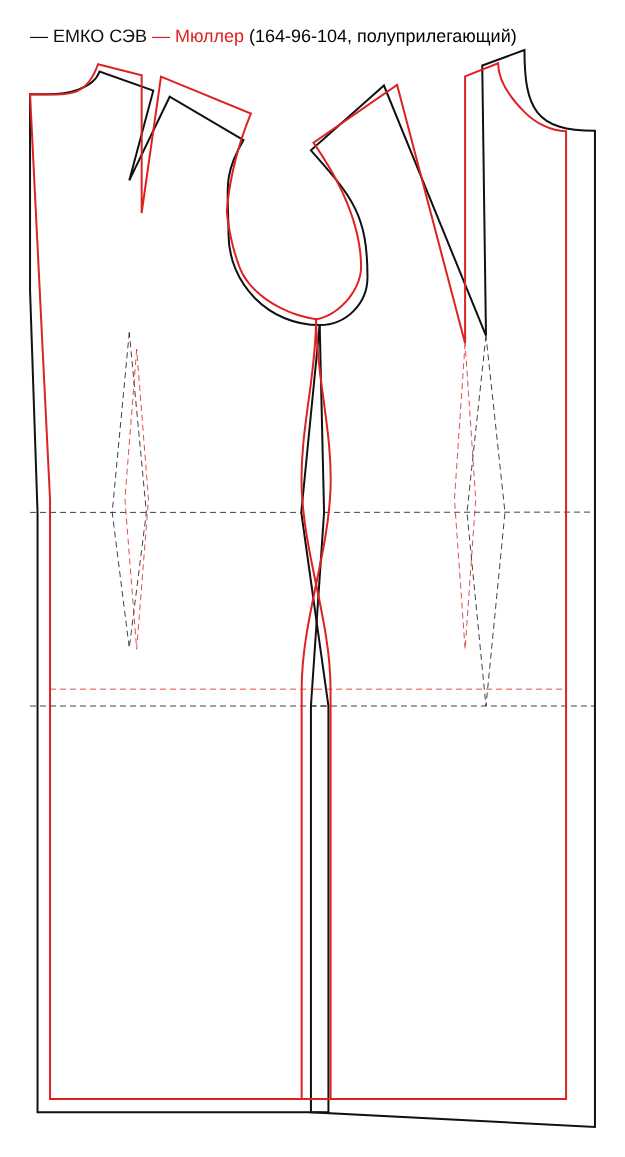
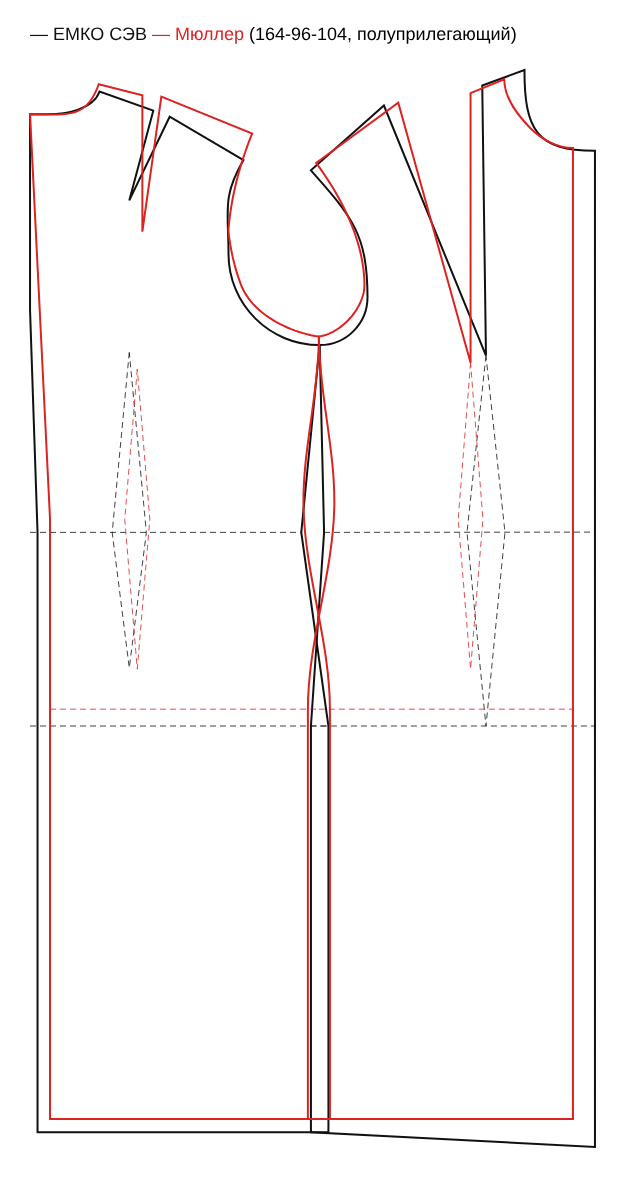
Müller dress: piecewise feature table by bust, ГОСТ Ог3 → Müller Ог
Forum material Platon added (ModaNews 2009, Club Sezon 2004) gives Müller's
full table of auxiliary features for Ог 80–146 and explains that his Ог and
Впрз are measured differently from ГОСТ.

- Гпр, Вг II, Дтп II, Шпр and Шг now follow the piecewise formulas; two
  variants for Шпр/Шг (the book's size 48 matches variant 2, the default).
- Armhole depth from Ог by default; Впрз + 2,5 is kept as an option.
- Ог3 is shifted to Müller's Ог by 1,5 % (option, 0 for Müller measurements).
- Bust warning range widened to 80–146 см; shoulder ease tolerance 2–13 mm.
- Docs: table, sources, updated comparison and dress overlay.

Claude-Session: https://claude.ai/code/session_01QULRT2sZbSPKQMqiW1vc4r

diff --git a/packages/core/src/blocks/muller/dress.ts b/packages/core/src/blocks/muller/dress.ts
@@ -12,12 +12,26 @@ import { calc, check, type BlockDef, type BlockResult, type CalcStep, type Silho
  *
  * Main measurements: Ог (bust), От, Об, Дсп (back length), Гпр (armhole
  * depth), Вб (hip height from the 7th vertebra), Ди, Др. For the typical
- * figure the book derives the rest from Ог (valid for Ог 100–116):
- *   Дгс = 1/10·½Ог + 2        back neck width
- *   Вг II = ¼Ог + 5            bust height from the top line
- *   Дтп II = Дсп + 4,5 + (Ог − 100)/10   front length on the dart line
- *   Шс = ⅛Ог + 5,5,  Шпр = ⅛Ог − 0,5,  Шг = ¼Ог − 5   (sum ½Ог)
+ * figure the book derives the rest from Ог. The size-48 example uses the
+ * formulas for Ог 100–116; the full piecewise table «Расчёт размерных
+ * признаков по системе Мюллера» (Ог 80–146) is taken from the Club Sezon
+ * forum thread «Какой техникой кроя вы пользуетесь» (g@la, 28.11.2004):
+ *   Гпр = 1/10·Ог + 12 | 11 | 10,5        (Ог < 83 | 83–116 | 117–146)
+ *   Дгс = 1/20·Ог + 2                    back neck width
+ *   Вг II = ¼Ог + 6 | 5 | 4              (80–95 | 96–115 | 117–146)
+ *   Дтп II = Дсп + 4 | 4,5 | 4,5 + (Ог − 100)/10 | 5 + … | 5,5 + … | 6 + …
+ *            (80–90 | 91–100 | 101–110 | 111–120 | 121–130 | > 130)
+ *   Шс = ⅛Ог + 5,5
+ *   Шпр, Шг, variant 1: ⅛Ог − 1,5 | − 1 | − 0,5;  ¼Ог − 4 | − 4,5 | − 5
+ *            (80–100 | 101–110 | > 110)
+ *   Шпр, Шг, variant 2: ⅛Ог − 1,5 | − 0,5 | + 0,5;  ¼Ог − 4 | − 5 | − 6
+ *            (< 83 | 83–116 | 117–146)  — the book's size 48 matches this one.
  * We do the same, so this block depends on fewer measurements than ЕМКО.
+ *
+ * Müller's Ог is taken over the bust points and the lower shoulder-blade
+ * angles, not level: it is 1–2 см more than ГОСТ Ог3, more for larger
+ * sizes (Сычева, ModaNews, 2009). We add `bustShift` % of Ог3 (1,5 % gives
+ * 1,3 см at Ог3 88 and 1,8 см at 120).
  *
  * Grid (fig. 1): 1–2 = Гпр + 1 (chest line), 1–3 = Дсп (waist), 1–4 = Вб,
  * 1–5 = Ди. CB 1→6→7→8 with 3–6 = 4–7 = 2. 9 on the chest line; 9–10 = Шс,
@@ -43,9 +57,10 @@ import { calc, check, type BlockDef, type BlockResult, type CalcStep, type Silho
  * 14–17 = ½ hem width. S = the front armhole from the notch to 11a laid on
  * the lower cap; the seam runs from S parallel to the front roll.
  *
- * Deviations: Гпр is taken from our measurement Впрз (ГОСТ, to the back
- * armpit corner) + 2,5 см, which is where Müller's tape sits under the arm
- * (on the typical 164-96 figure 17,9 + 2,5 ≈ 1/10·96 + 11). The one-seam
+ * Deviations: Гпр comes from Ог by the table above (`depthFromBust` = 1).
+ * Müller measures Впрз to the lower shoulder-blade angles, so our ГОСТ Впрз
+ * (to the back armpit corner) does not map onto it; with `depthFromBust` = 0
+ * we take Впрз + 2,5 см instead, for figures far from typical. The one-seam
  * sleeve is unfolded about the rolls; the bend of the elbow roll gives an
  * elbow dart in the back seam. Hem width = Озап + ease (the book gives 24 см
  * for size 48 without a formula).
@@ -68,6 +83,28 @@ export interface MullerDressOptions extends Record<string, number> {
   sleeveHemEase: number
   /** Сколько вычесть из ½Дпр(ч) при построении оката, mm (в книге 0,5–1,5 см). */
   capReduce: number
+  /** Поправка ГОСТ Ог3 → Ог Мюллера, % от Ог3. */
+  bustShift: number
+  /** 1 — глубина проймы по формуле от Ог, 0 — по мерке Впрз + 2,5 см. */
+  depthFromBust: number
+  /** Вариант расчёта Шпр и Шг: 1 или 2 (альтернативный). */
+  widthVariant: number
+}
+
+/** Müller's auxiliary features of the typical figure from Ог (mm), see the table above. */
+export function mullerFeatures(Og: number, Dsp: number, variant: number) {
+  const cm = Og / 10
+  const Gpr = Og / 10 + (cm < 83 ? 120 : cm <= 116.5 ? 110 : 105)
+  const Vg = Og / 4 + (cm < 95.5 ? 60 : cm < 116 ? 50 : 40)
+  const over = (Og - 1000) / 10
+  const Dtp =
+    Dsp +
+    (cm <= 90.5 ? 40 : cm <= 100.5 ? 45 : cm <= 110.5 ? 45 + over : cm <= 120.5 ? 50 + over : cm <= 130.5 ? 55 + over : 60 + over)
+  const [dShpr, dShg] =
+    variant === 1
+      ? cm <= 100.5 ? [-15, -40] : cm <= 110.5 ? [-10, -45] : [-5, -50]
+      : cm < 83 ? [-15, -40] : cm <= 116.5 ? [-5, -50] : [5, -60]
+  return { Gpr, Vg, Dtp, Dgs: Og / 20 + 20, Shs: Og / 8 + 55, Shpr: Og / 8 + dShpr, Shg: Og / 4 + dShg }
 }
 
 const EASE: Record<Silhouette, Pick<MullerDressOptions, 'backEase' | 'armholeEase' | 'chestEase' | 'waistEase' | 'hipEase' | 'depthEase'>> = {
@@ -99,8 +136,20 @@ export const mullerDress: BlockDef<MullerDressOptions> = {
       id: 'capReduce', title: 'Уменьшение оката', min: 5, max: 30, step: 1,
       hint: 'От переднего знака до верха оката откладывают ½ длины проймы минус 0,5–1,5 см. Больше вычет — меньше посадка оката.',
     },
+    {
+      id: 'bustShift', title: 'Поправка обхвата груди, %', min: 0, max: 3, step: 0.1,
+      hint: 'Мюллер измеряет Ог через нижние углы лопаток: на 1–2 см больше Ог3 по ГОСТ, у больших размеров больше. 0 — если Ог снят по Мюллеру.',
+    },
+    {
+      id: 'depthFromBust', title: 'Глубина проймы от Ог (1) или по мерке (0)', min: 0, max: 1, step: 1,
+      hint: 'По книге Гпр считают от Ог. Мерка Впрз по ГОСТ снята иначе, чем у Мюллера, поэтому по мерке берём Впрз + 2,5 см.',
+    },
+    {
+      id: 'widthVariant', title: 'Вариант расчёта Шпр и Шг', min: 1, max: 2, step: 1,
+      hint: 'Вариант 2 даёт пройму на 1 см шире и грудь на 1 см уже. Пример книги (размер 48) — вариант 2.',
+    },
   ],
-  defaults: (s) => ({ ...EASE[s], bladeDart: 12, sleeveHemEase: 75, capReduce: 10 }),
+  defaults: (s) => ({ ...EASE[s], bladeDart: 12, sleeveHemEase: 75, capReduce: 10, bustShift: 1.5, depthFromBust: 1, widthVariant: 2 }),
   draft: draftMullerDress,
 }
 
@@ -163,23 +212,30 @@ function offset3(a: Vec, b: Vec, c: Vec, d: number, side: Vec): [Vec, Vec, Vec] 
   return [add(a, n1), j, add(c, n2)]
 }
 
+const fmtPct = (x: number) => String(Math.round(x * 10) / 10).replace('.', ',')
+
 export function draftMullerDress(m: M, o: MullerDressOptions): BlockResult {
   const steps: CalcStep[] = []
   const c = calc(steps)
   const warnings: string[] = []
-  const Og = m.bust
+  const Og = c('Ог', 'Обхват груди по Мюллеру', `Ог3 + ${fmtPct(o.bustShift)} %`, Math.round(m.bust * (1 + o.bustShift / 100)))
 
-  // Auxiliary features of the typical figure (table p. 49).
-  const Gpr = c('Гпр', 'Глубина проймы', 'Впрз + 2,5', m.armholeDepth + 25)
+  // Auxiliary features of the typical figure (table p. 49 and the forum table).
   const Dsp = c('Дсп', 'Длина спины', 'мерка', m.backLength)
+  const f = mullerFeatures(Og, Dsp, o.widthVariant === 1 ? 1 : 2)
+  const cm = (x: number) => fmtPct(x / 10)
+  const Gpr = o.depthFromBust
+    ? c('Гпр', 'Глубина проймы', `1/10·Ог + ${cm(f.Gpr - Og / 10)}`, f.Gpr)
+    : c('Гпр', 'Глубина проймы', 'Впрз + 2,5', m.armholeDepth + 25)
   const Vb = c('Вб', 'Высота бёдер от 7-го позвонка', 'Дсп + Дтб', m.backLength + m.waistToHips)
   const Di = c('Ди', 'Длина изделия от 7-го позвонка', 'Дсп + Ди сбоку', m.backLength + m.skirtLength)
-  const Dgs = c('Дгс', 'Ширина горловины спинки', '1/10·½Ог + 2', 0.05 * Og + 20)
-  const Vg = c('Вг II', 'Высота груди', '¼Ог + 5', 0.25 * Og + 50)
-  const Dtp = c('Дтп II', 'Длина переда по линии вытачки', 'Дсп + 4,5 + (Ог − 100)/10', Dsp + 45 + (Og - 1000) / 10)
-  const Shs = c('Шс', 'Ширина спины с прибавкой', '⅛Ог + 5,5 + П', Og / 8 + 55 + o.backEase)
-  const Shpr = c('Шпр', 'Ширина проймы с прибавкой', '⅛Ог − 0,5 + П', Og / 8 - 5 + o.armholeEase)
-  const Shg = c('Шг', 'Ширина груди с прибавкой', '¼Ог − 5 + П', Og / 4 - 50 + o.chestEase)
+  const Dgs = c('Дгс', 'Ширина горловины спинки', '1/20·Ог + 2', f.Dgs)
+  const Vg = c('Вг II', 'Высота груди', `¼Ог + ${cm(f.Vg - Og / 4)}`, f.Vg)
+  const Dtp = c('Дтп II', 'Длина переда по линии вытачки', 'Дсп + по таблице от Ог', f.Dtp)
+  const sign = (x: number) => (x < 0 ? `− ${cm(-x)}` : `+ ${cm(x)}`)
+  const Shs = c('Шс', 'Ширина спины с прибавкой', '⅛Ог + 5,5 + П', f.Shs + o.backEase)
+  const Shpr = c('Шпр', 'Ширина проймы с прибавкой', `⅛Ог ${sign(f.Shpr - Og / 8)} + П`, f.Shpr + o.armholeEase)
+  const Shg = c('Шг', 'Ширина груди с прибавкой', `¼Ог ${sign(f.Shg - Og / 4)} + П`, f.Shg + o.chestEase)
   const yChest = c('1–2', 'Линия груди', 'Гпр + 1', Gpr + o.depthEase)
 
   // Grid
@@ -278,7 +334,7 @@ export function draftMullerDress(m: M, o: MullerDressOptions): BlockResult {
   if (e < 0) warnings.push('Талия с прибавкой шире, чем позволяет чертёж: вытачки по талии не нужны.')
   if (backDart > 45) warnings.push(`Вытачка по талии спинки ${fmt(backDart)} шире 3,5 см: проверьте мерки талии и бёдер.`)
   if (frontDart > 40) warnings.push(`Вытачка по талии переда ${fmt(frontDart)} шире 4 см: проверьте мерки.`)
-  if (Og < 840 || Og > 1240) warnings.push('Формулы книги даны для типовых фигур с Ог 100–116 см; при другом обхвате проверьте основу на макете.')
+  if (Og < 800 || Og > 1460) warnings.push('Таблица Мюллера дана для Ог 80–146 см; при другом обхвате проверьте основу на макете.')
 
   const yW = Dsp
   const backWaistSide = v(x11 - side / 2, yW - 10)
@@ -498,7 +554,7 @@ export function draftMullerDress(m: M, o: MullerDressOptions): BlockResult {
     },
     steps: [...steps, { id: 'Ae', title: 'Задний знак: от бока по пройме', formula: '|11–21|', value: backNotchLen }],
     checks: [
-      check('shoulder', 'Плечо спинки длиннее плеча полочки на посадку 0,5–1 см', shoulderBackSeam, shoulderFrontSeam, 7.5, 5),
+      check('shoulder', 'Плечо спинки длиннее плеча полочки на посадку 0,5–1 см', shoulderBackSeam, shoulderFrontSeam, 7.5, 5.5),
       check('side', 'Боковые срезы: спинка и полочка', sideBack, sideFront, 0, 3),
       check('cap', 'Окат длиннее проймы на посадку (2–8 см)', cap - armhole, 0, 50, 32),
       check('sleeveSeam', 'Шов рукава: два среза (без локтевой вытачки)', seamFront, seamBack, 0, 8),

diff --git a/packages/core/src/blocks/muller/dress.test.ts b/packages/core/src/blocks/muller/dress.test.ts
@@ -1,5 +1,5 @@
 import { describe, expect, it } from 'vitest'
-import { draftMullerDress, mullerDress } from './dress'
+import { draftMullerDress, mullerDress, mullerFeatures } from './dress'
 import { GOST_FIGURES, SAMPLE_MEASUREMENTS, typicalFigure } from '../../measurements'
 
 const step = (r: ReturnType<typeof draftMullerDress>, id: string) => {
@@ -17,9 +17,11 @@ const BOOK = {
   bust: 1100, waist: 945, hips: 1140, backLength: 420, armholeDepth: 195,
   waistToHips: 220, skirtLength: 640, armLength: 614, wrist: 165,
 }
+/** The book's Ог is Müller's own, so no ГОСТ → Müller shift. */
+const BOOK_OPTS = { ...mullerDress.defaults('fitted'), bustShift: 0 }
 
 describe('Платье Мюллера: пример книги, размер 48', () => {
-  const r = draftMullerDress(BOOK, mullerDress.defaults('fitted'))
+  const r = draftMullerDress(BOOK, BOOK_OPTS)
 
   it('вспомогательные признаки и ширины как в таблице книги', () => {
     const table: Record<string, number> = {
@@ -73,5 +75,32 @@ describe('Платье Мюллера: другие фигуры', () => {
         for (const ch of r.checks) expect(ch.ok, `${f.label} ${s}: ${ch.title} ${ch.a.toFixed(1)} / ${ch.b.toFixed(1)}`).toBe(true)
       }
     }
+  })
+})
+
+describe('Платье Мюллера: таблица признаков по Ог (форум Club Sezon)', () => {
+  it('ступенчатые формулы на границах диапазонов', () => {
+    // Ог 88: Гпр 8,8 + 11, Вг II 22 + 6, Дтп II Дсп + 4, Шпр/Шг вариант 1: 11 − 1,5 и 22 − 4.
+    expect(mullerFeatures(880, 400, 1)).toMatchObject({ Gpr: 198, Vg: 280, Dtp: 440, Shpr: 95, Shg: 180 })
+    // Ог 96: Вг II уже 24 + 5, Дтп II + 4,5 (без поправки на (Ог − 100)/10).
+    expect(mullerFeatures(960, 400, 1)).toMatchObject({ Vg: 290, Dtp: 445 })
+    // Ог 120: Гпр 12 + 10,5; Вг II 30 + 4; Дтп II + 5 + 2; вариант 2: 15 + 0,5 и 30 − 6.
+    expect(mullerFeatures(1200, 400, 2)).toMatchObject({ Gpr: 225, Vg: 340, Dtp: 470, Shpr: 155, Shg: 240 })
+    // Ог 110, вариант 1 и 2 дают одну сумму Шпр + Шг.
+    const a = mullerFeatures(1100, 420, 1)
+    const b = mullerFeatures(1100, 420, 2)
+    expect(a.Shpr + a.Shg).toBeCloseTo(b.Shpr + b.Shg, 6)
+    expect(b.Shpr - a.Shpr).toBeCloseTo(5, 6)
+  })
+
+  it('переводит Ог3 по ГОСТ в Ог Мюллера (+1–2 см) и по умолчанию берёт Гпр от Ог', () => {
+    const o = mullerDress.defaults('semi')
+    const r = draftMullerDress({ ...BOOK, bust: 880 }, o)
+    expect(step(r, 'Ог')).toBe(893)
+    expect(step(r, 'Гпр')).toBeCloseTo(89.3 + 110, 6)
+    const big = draftMullerDress({ ...BOOK, bust: 1200 }, o)
+    expect(step(big, 'Ог')).toBe(1218)
+    const byMeasure = draftMullerDress(BOOK, { ...o, depthFromBust: 0 })
+    expect(step(byMeasure, 'Гпр')).toBe(220)
   })
 })

diff --git a/docs/m2-results.md b/docs/m2-results.md
@@ -123,15 +123,16 @@
 
 **Как строится (коротко):**
 - Сетка от 7-го позвонка: глубина проймы Гпр + 1 см, длина спины, высота бёдер, длина изделия. Середина спинки уходит внутрь на 2 см у талии.
-- Ширины: спина ⅛Ог + 5,5, пройма ⅛Ог − 0,5, грудь ¼Ог − 5 (в сумме ½Ог) плюс прибавки.
-- Перед выше спинки на (Ог − 100)/10 + 4,5 см. От точки груди (Вг = ¼Ог + 5) идёт нагрудная вытачка в плечо, в примере книги около 10 см.
+- Ширины: спина ⅛Ог + 5,5, пройма ⅛Ог − 0,5, грудь ¼Ог − 5 (в сумме ½Ог) плюс прибавки. Это формулы для Ог 83–116 см; для других обхватов коэффициенты другие (см. ниже).
+- Перед выше спинки на 4–6 см + (Ог − 100)/10 в зависимости от Ог. От точки груди (Вг = ¼Ог + 4…6) идёт нагрудная вытачка в плечо, в примере книги около 10 см.
 - Плечевой шов смещён на 1 см вперёд. Вытачка на лопатки (1–1,5 см у проймы) переведена в плечо спинки.
 - Талия: ½От + 2…3 см. Избыток сзади делится между боками (3–4 см) и вытачкой спинки (2–3,5 см), избыток спереди уходит в вытачку под грудью. Недостаток по бёдрам добавляется поровну к бокам.
 - Рукав одношовный: высота оката = ½ высоты проймы по чертежу − (0,2·Шпр + 0,75). Ширина считается от длины проймы, рукав разворачивается по переднему и локтевому перекатам.
 
 **Чем отличается от ЕМКО:**
-- Мюллер строит основу на типовую фигуру: ширины, высота груди и длина переда выводятся из Ог, а не из отдельных мерок. Своих мерок нужно меньше: Ог, От, Об, длина спины, глубина проймы, высота бёдер, длина изделия, длина руки и обхват запястья.
-- Пройма у Мюллера глубже. Его глубину проймы мы считаем как ГОСТовскую Впрз + 2,5 см: на типовой фигуре 164-96 это совпадает с его формулой ⅒Ог + 11.
+- Мюллер строит основу на типовую фигуру: глубина проймы, ширины, высота груди и длина переда выводятся из Ог, а не из отдельных мерок. Своих мерок нужно меньше: Ог, От, Об, длина спины, высота бёдер, длина изделия, длина руки и обхват запястья.
+- Ог у Мюллера снимают через нижние углы лопаток, не горизонтально. Он на 1–2 см больше ГОСТовского Ог3, у больших размеров разница больше. Мы добавляем к Ог3 1,5 % (настройка «Поправка обхвата груди»): 1,3 см при Ог3 88 и 1,8 см при Ог3 120.
+- Впрз Мюллер тоже меряет иначе, до нижних углов лопаток. Поэтому глубину проймы считаем по его формуле от Ог. Можно переключить на мерку: тогда берётся ГОСТовская Впрз + 2,5 см.
 - Посадка оката у Мюллера больше: 3,5–8 см на типовых фигурах ГОСТ против 3,7 см в ЕМКО. Для платья это много, поэтому есть настройка «Уменьшение оката».
 
 **Отступления от книги:**
@@ -139,9 +140,18 @@
 - При развороте рукава излом локтевого переката даёт локтевую вытачку в шве. В книге шов нарисован без неё.
 - Нагрудная вытачка доходит до самой точки груди, как в книге. Укорачивать её будем на этапе моделирования.
 
+**Таблица признаков по Ог** (выгрузка с форума Club Sezon, тема «Какой техникой кроя вы пользуетесь», 2004; в сборнике есть только формулы для размера 48). Ог в см:
+- Гпр = ⅒Ог + 12 (Ог до 83), + 11 (83–116), + 10,5 (117–146).
+- Вг II = ¼Ог + 6 (80–95), + 5 (96–115), + 4 (117–146).
+- Дтп II = Дсп + 4 (80–90), + 4,5 (91–100); дальше + 4,5 / 5 / 5,5 / 6 см + (Ог − 100)/10 по десяткам Ог.
+- Шс = ⅛Ог + 5,5; Дгс = 1/20·Ог + 2.
+- Шпр и Шг, вариант 1: ⅛Ог − 1,5 / − 1 / − 0,5 и ¼Ог − 4 / − 4,5 / − 5 (Ог 80–100 / 101–110 / больше 110).
+- Вариант 2: ⅛Ог − 1,5 / − 0,5 / + 0,5 и ¼Ог − 4 / − 5 / − 6 (Ог до 83 / 83–116 / 117–146). Пройма на 1 см шире, грудь на 1 см уже. Пример книги построен по нему, он стоит по умолчанию.
+- Ширину плеча форум даёт таблицей 11,8–14,5 см для Ог 80–134. У нас плечо получается построением, как в книге.
+
 **Сверка:** пример книги (размер 48: Ог 110, От 94,5, Об 114) даёт ширины 19,7 / 14,8 / 24 см и контроль 58,5 см точно, как в книге. Высота проймы по чертежу 39,1 см (в книге 40), длина проймы 48,5 см (в книге 49), высота оката 15,8 см (в книге 16,3). Бока 3,4 см, вытачка спинки 2,8 см. Платье строится на всех типовых фигурах ГОСТ в трёх силуэтах.
 
-**Проверки:** плечо спинки длиннее плеча полочки на 0,5–1 см, боковые срезы равны, посадка оката 2–8 см, два среза шва рукава равны (±8 мм без локтевой вытачки).
+**Проверки:** плечо спинки длиннее плеча полочки на 0,2–1,3 см (у больших размеров посадка плеча уменьшается), боковые срезы равны, посадка оката 2–8 см, два среза шва рукава равны (±8 мм без локтевой вытачки).
 
 ## Брюки, Мюллер (готово, сверено с книгой, нужен макет)
 
@@ -164,19 +174,19 @@
 
 ## Сравнение ЕМКО и Мюллера на одних мерках
 
-Мерки взяты с типовых фигур ГОСТ, силуэт полуприлегающий. В скобках ЕМКО / Мюллер, мм. Чёрным на рисунках ЕМКО, красным Мюллер.
+Мерки взяты с типовых фигур ГОСТ, силуэт полуприлегающий. Для Мюллера Ог3 переведён в его Ог (+1,5 %). В скобках ЕМКО / Мюллер, мм. Чёрным на рисунках ЕМКО, красным Мюллер.
 
 | | 164-88-96 | 164-96-104 | 170-108-114 |
 |---|---|---|---|
 | **Юбка:** линия бёдер от талии | 198 / 190 | 201 / 190 | 208 / 195 |
 | сумма вытачек на половину | 135 / 135 | 133 / 133 | 125 / 125 |
 | подъём талии у бока | 15 / 10 | 15 / 10 | 20 / 10 |
-| **Платье:** линия груди от 7-го позвонка | 186 / 215 | 196 / 225 | 221 / 250 |
-| ширина спины / проймы / груди | 186·129·208 / 175·125·185 | 199·139·228 / 185·135·205 | 219·154·260 / 200·150·235 |
-| длина проймы | 432 / 437 | 459 / 464 | 501 / 524 |
-| длина оката | 475 / 482 | 506 / 513 | 550 / 583 |
-| высота оката | 146 / 149 | 157 / 157 | 172 / 178 |
-| вытачка по талии сзади / спереди | 34·38 / 24·23 | 34·38 / 24·21 | 38·42 / 24·23 |
+| **Платье:** линия груди от 7-го позвонка | 186 / 214 | 196 / 222 | 221 / 235 |
+| ширина спины / проймы / груди | 186·129·208 / 177·127·188 | 199·139·228 / 187·137·209 | 219·154·260 / 202·152·239 |
+| длина проймы | 432 / 437 | 459 / 461 | 501 / 497 |
+| длина оката | 475 / 482 | 506 / 508 | 550 / 549 |
+| высота оката | 146 / 148 | 157 / 154 | 172 / 162 |
+| вытачка по талии сзади / спереди | 34·38 / 25·26 | 34·38 / 25·25 | 38·42 / 26·27 |
 | **Брюки:** линия бёдер от талии | 170 / 187 | 173 / 193 | 180 / 213 |
 | ширина передней / задней половинки | 235·265 / 230·255 | 254·286 / 250·275 | 277·313 / 275·300 |
 | шаг спереди / сзади | 62·118 / 56·131 | 67·129 / 60·142 | 74·142 / 65·155 |
@@ -184,8 +194,10 @@
 
 **Что видно:**
 - **Юбки** почти совпадают: ширина и сумма вытачек одинаковые, потому что одинаковы прибавки. Разница в мелочах. ЕМКО поднимает талию сбоку по меркам высоты талии (1,5–2 см), Мюллер всегда на 1 см. ЕМКО кладёт больше в заднюю вытачку, Мюллер больше в бок.
-- **Платья** близки по силуэту, особенно пройма и окат: длины отличаются на 1–5 %. Линия груди у Мюллера на 3 см ниже, зато его пройма уже. Полочка и спинка у Мюллера уже, потому что в полуприлегающем силуэте у него меньше прибавка по груди: 4,5 см против 5,1 у ЕМКО. Вытачки по талии у Мюллера меньше, остальное он убирает в бока.
+- **Платья** близки по силуэту, особенно пройма и окат: длины отличаются меньше чем на 1,5 %. Линия груди у Мюллера на 1,4–2,8 см ниже, зато его пройма уже. (До поправок по таблице с форума у размера 170-108 пройма Мюллера была длиннее на 2,3 см, а окат на 3,3 см.) Сумма ширин по линии груди у Мюллера меньше на 3–4 см. Откуда разница, покажет макет. Вытачки по талии у Мюллера меньше, остальное он убирает в бока.
 - **Брюки** отличаются сильнее всего. У Мюллера ниже линия шага: высота сидения берётся из мерки, а у ЕМКО выводится из высот. Шаговый срез у Мюллера на 3–4,5 см короче, из них 3,5 см — укорочение под каблук. У Мюллера больше задний шаг и меньше передний.
+
+**Что говорят источники о выборе методики.** В учебнике Куреновой и Савельевой «Конструирование одежды» (2003, пересказ на форуме Club Sezon) методики сравнили на разных фигурах. ЕМКО СЭВ рекомендуют для нормальной осанки и низких или нормальных плеч. Мюллера рекомендуют для сутуловатой осанки, высоких плеч и небольшой груди. Практики на форуме оспаривают такое жёсткое деление: по их опыту, хорошо садится любая методика, если строить строго по её меркам и прибавкам. Для нас вывод такой: методику в приложении стоит предлагать с подсказкой по осанке, но выбор оставлять за пользователем.
 
 ![Юбки](img/m2-compare-skirt.png)
 ![Платья без рукава](img/m2-compare-dress.png)
